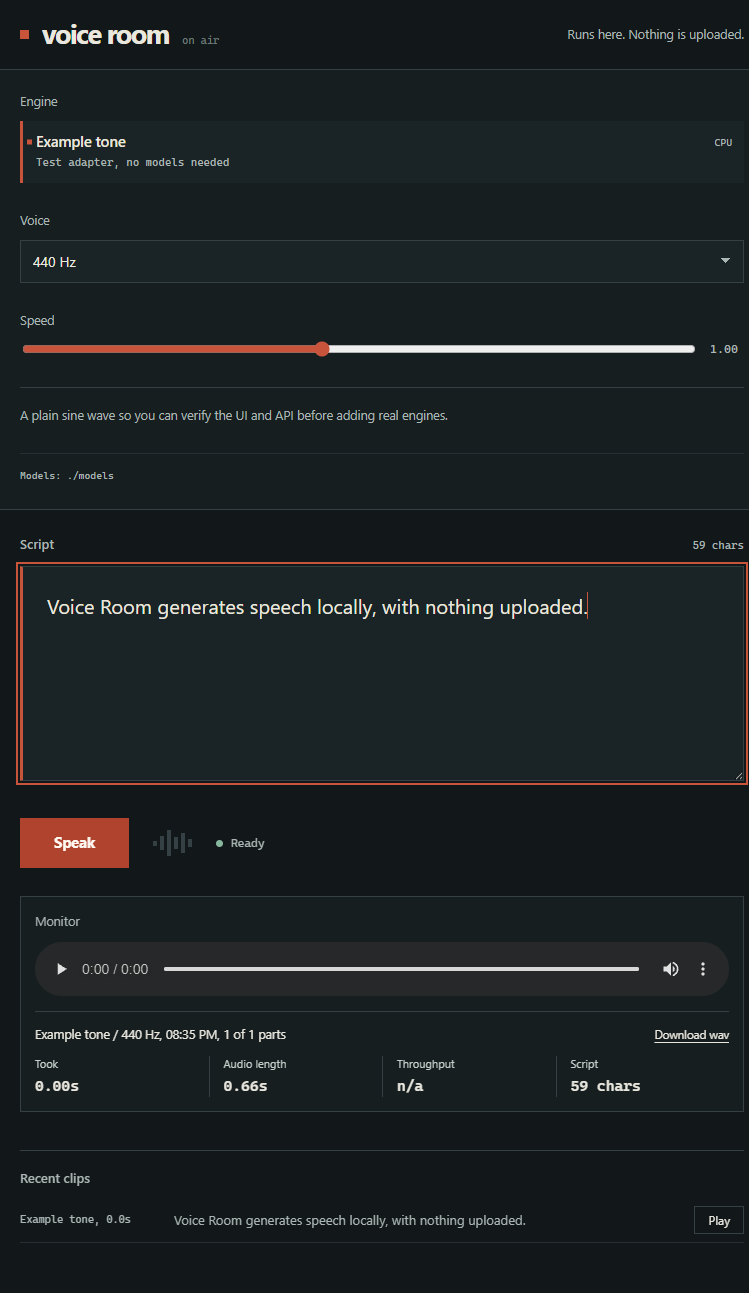
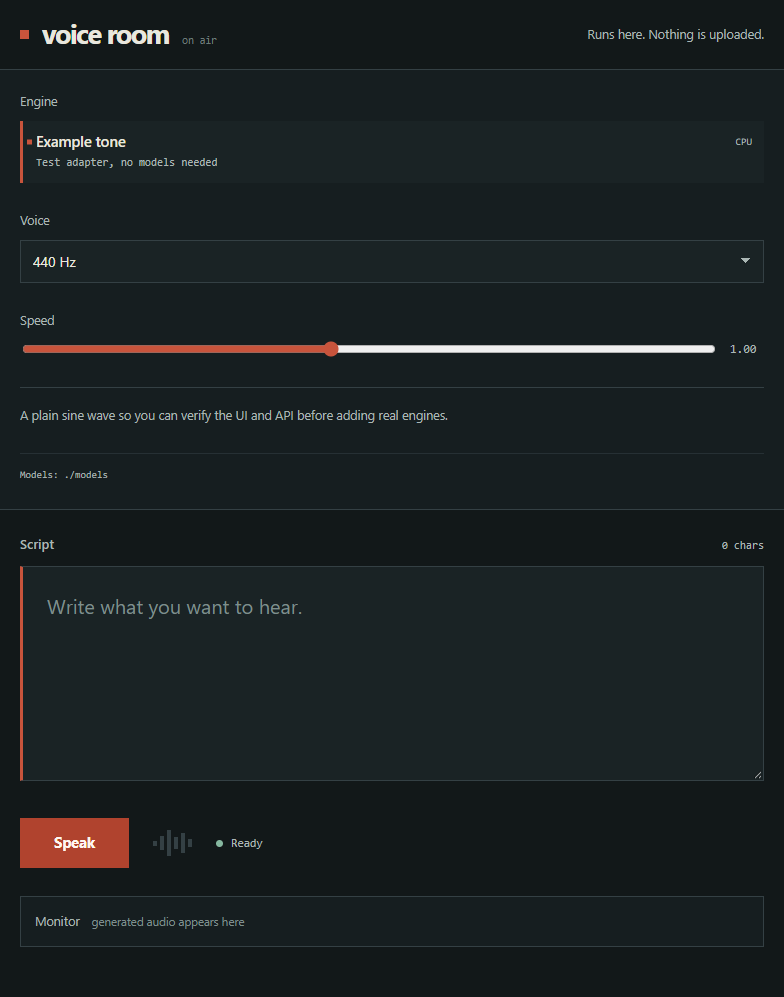
Hide page scrollbar and refresh UI screenshot

diff --git a/ui/styles.css b/ui/styles.css
@@ -16,6 +16,8 @@
   }
   * { box-sizing: border-box; }
   html, body { margin: 0; min-height: 100%; }
+  html, body { scrollbar-width: none; -ms-overflow-style: none; }
+  html::-webkit-scrollbar, body::-webkit-scrollbar { width: 0; height: 0; display: none; }
   body {
     background: var(--base);
     color: var(--paper);
